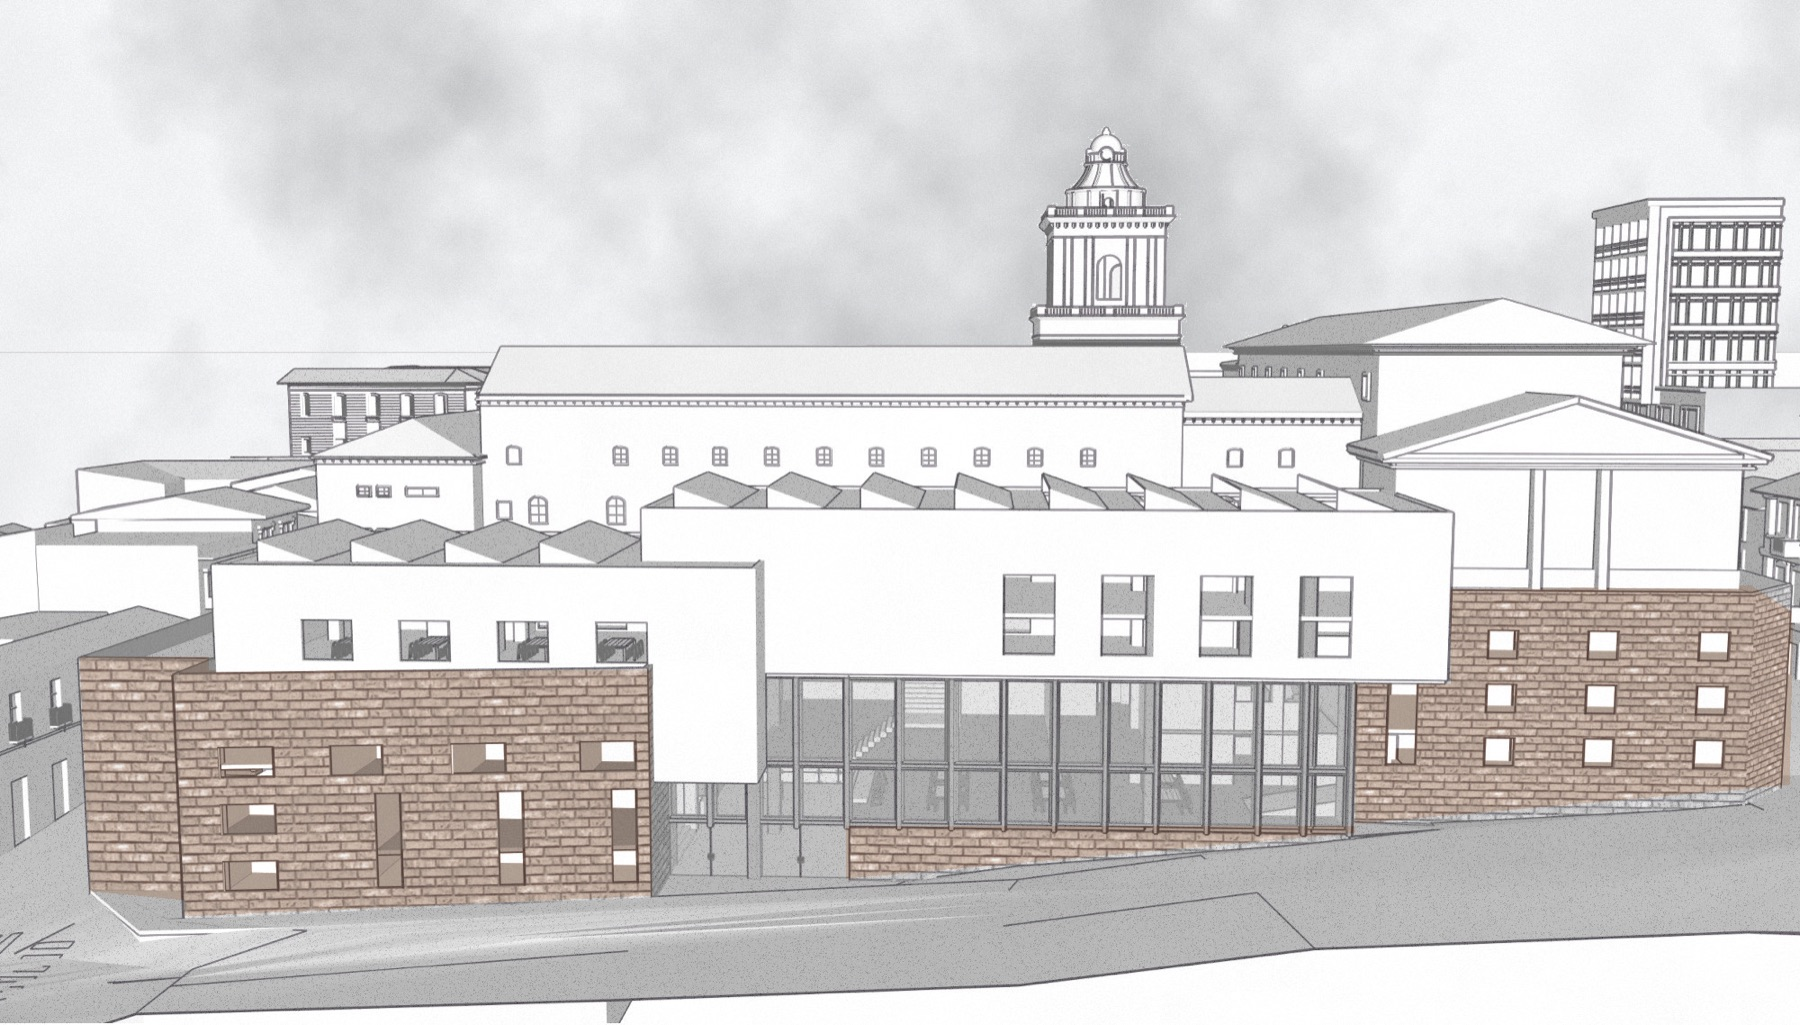
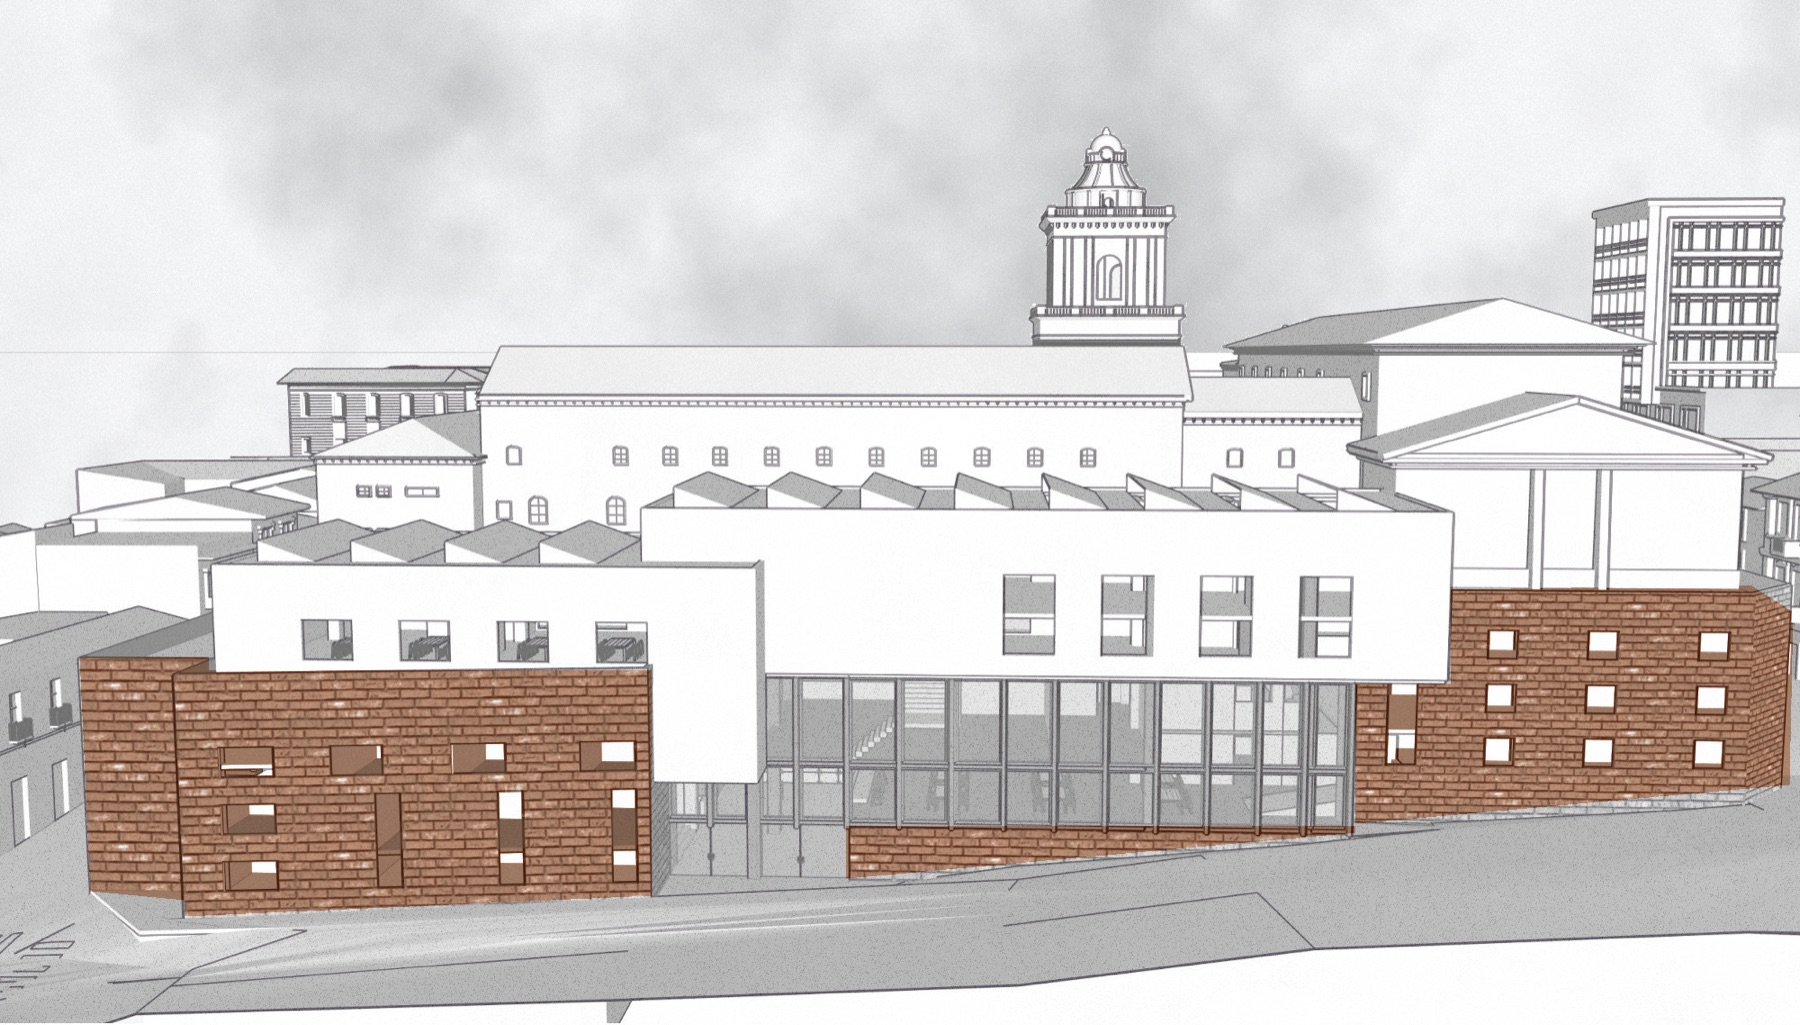
Inicio: piedra de la Facultad con un color más presente

Changed region(s): [[0.0311, 0.6244, 0.3733, 0.9054], [0.4667, 0.562, 0.9956, 0.8741]]

diff --git a/CLAUDE.md b/CLAUDE.md
@@ -78,7 +78,7 @@ Sitio en vivo: Vercel, desplegado automáticamente desde `main` de https://githu
 - **Menú** a pantalla completa: **PROYECTOS** (Remodelación YM + obras de Arq. Buró), **DISEÑOS** (los 6 proyectos universitarios, presentados sin referencia a la universidad), SOBRE MÍ, CONTACTO.
 - **Inicio** = franjas horizontales a todo el ancho, **una por proyecto** (lista `franjas` en App.jsx; `pos` = parte visible de la foto). Alto: computadora `clamp(260px, 25vw, 440px)` (≈360 px a 1440 px; Joaquín las veía muy cortadas con 230), celular 230 px. B/N; al pasar el mouse, color + nombre + rol ("Jefe de obra", "Diseño y dirección de obra", "Diseño"); en celular el nombre se ve siempre con sombra inferior. Se probó un mosaico de tamaños distintos y **Joaquín prefirió las franjas horizontales**.
 - **Orden (pedido por Joaquín)**: Remodelación YM, Casa JC, FR, AJ, JV, LT, BR, Colegio Mine, Mundaneum Beirut, Galería-Talleres, Edificio Nexo, Facultad, Biblioteca, Centro Comunitario. Desde la sesión 4 el menú, las grillas y "proyecto anterior / siguiente" siguen este mismo orden (es el orden de las listas en `proyectos.js`).
-- Franja de la **Facultad** (2026-11-17, Joaquín la veía "como un dibujo" y la quería con el estilo de Mundaneum/Centro Comunitario): `disenos/facultad-arquitectura-inicio.jpg` = vista del conjunto (`facultad-arquitectura/01.jpg`) pasada a ilustración con `~/Desktop/pdf-tools/ilustra2.mjs` (cielo de acuarela, contornos negros → líneas grises finas por cierre morfológico, tonos aclarados, ladrillo cálido #b8906c, grano y punteado de papel; semillas `60,440;1990,470` para el suelo blanco de SketchUp; `linea` 0.3, `ladrillo` #c49c80, `fuerzaLadrillo` 0.5, con el ladrillo marcado a mano en `poligonos` [[[88,730],[232,730],[232,745],[724,745],[724,995],[205,1018],[205,1000],[100,990]],[[940,918],[1506,918],[1506,925],[940,976]],[[1612,655],[1945,650],[1992,680],[1988,872],[1506,915],[1506,760],[1612,760]]] sobre la imagen de 2000 px), 1800 px, `pos` 50% 60%. **Color de la piedra muy sutil** (pedido de Joaquín): en reposo la franja usa `gris: 0.7` (variable CSS `--gris` → `grayscale(0.7)`, se ve un leve tono cálido) y al pasar el mouse el color completo, liviano. Se descartó Higgsfield: Joaquín pidió hacerla sin servicios externos. Franja de **Galería-Talleres** = sección 2 (`disenos/galeria-talleres-inicio.jpg`, recorte de la lámina `[.662,.79,.883,.912]`, `pos` 50% 45%), pedido de Joaquín el 2026-11-16; solo en el inicio: la galería y la portada de la grilla de Diseños siguen con la maqueta. Portada de **Mundaneum** = render de la fachada de arcos con la mezquita y las ruinas romanas (recorte de `mundaneum-beirut/01.jpg`, 74,206,1856×846 → 1600×729).
+- Franja de la **Facultad** (2026-11-17, Joaquín la veía "como un dibujo" y la quería con el estilo de Mundaneum/Centro Comunitario): `disenos/facultad-arquitectura-inicio.jpg` = vista del conjunto (`facultad-arquitectura/01.jpg`) pasada a ilustración con `~/Desktop/pdf-tools/ilustra2.mjs` (cielo de acuarela, contornos negros → líneas grises finas por cierre morfológico, tonos aclarados, ladrillo cálido #b8906c, grano y punteado de papel; semillas `60,440;1990,470` para el suelo blanco de SketchUp; `linea` 0.3, `ladrillo` #b07a5a, `fuerzaLadrillo` 0.8 (con #c49c80 y 0.5 Joaquín lo vio "demasiado claro"), con el ladrillo marcado a mano en `poligonos` [[[88,730],[232,730],[232,745],[724,745],[724,995],[205,1018],[205,1000],[100,990]],[[940,918],[1506,918],[1506,925],[940,976]],[[1612,655],[1945,650],[1992,680],[1988,872],[1506,915],[1506,760],[1612,760]]] sobre la imagen de 2000 px), 1800 px, `pos` 50% 60%. **Color de la piedra muy sutil** (pedido de Joaquín): en reposo la franja usa `gris: 0.7` (variable CSS `--gris` → `grayscale(0.7)`, se ve un leve tono cálido) y al pasar el mouse el color completo, liviano. Se descartó Higgsfield: Joaquín pidió hacerla sin servicios externos. Franja de **Galería-Talleres** = sección 2 (`disenos/galeria-talleres-inicio.jpg`, recorte de la lámina `[.662,.79,.883,.912]`, `pos` 50% 45%), pedido de Joaquín el 2026-11-16; solo en el inicio: la galería y la portada de la grilla de Diseños siguen con la maqueta. Portada de **Mundaneum** = render de la fachada de arcos con la mezquita y las ruinas romanas (recorte de `mundaneum-beirut/01.jpg`, 74,206,1856×846 → 1600×729).
 - **Rutas**: `#/` · `#/proyectos` y `#/disenos` (grilla de portadas) · `#/p/<slug>` = **todas las fotos del proyecto en grilla de 3 columnas** (lo que abre cada franja y el menú; B/N, color y descripción al pasar) · `#/p/<slug>/<n>` = al hacer clic en una foto: foto n grande (clic → visor a pantalla completa), ficha "campo > valor" a la derecha, miniaturas abajo, resumen debajo; la dirección se actualiza al cambiar de foto; al pie: ‹ proyecto anterior · TODAS LAS FOTOS · siguiente › · `#/sobre-mi` · `#/contacto`.
 - **Fichas**: cada dato en su línea, etiqueta gris con dos puntos arriba ("Tipo:", "Ubicación:", "Año:", "Diseño y dirección de obra:") y valor blanco debajo; grupos separados por líneas finas (`<dl class="ficha-grupo">`; pedido de Joaquín, antes era "campo > valor" con "-"). Datos: tipo, ubicación, año; obras: "Diseño: Diez + Muller · Construcción: Arq. Buró · Dirección de obra: Joaquín Andrade" (antes "jefe de obra"; Joaquín pidió "Dirección de obra" en los proyectos el 2026-11-16; también es el rol en las franjas del inicio); YM: tipo "Remodelación", ubicación "Oyambarillo, Quito, Ecuador", 2025, "diseño y dirección de obra > Joaquín Andrade" + descripción de 3 párrafos escrita por Joaquín (no reescribirla; `resumen` puede ser un texto o una lista de párrafos); diseños: "diseño > Joaquín Andrade", **excepto el Centro Comunitario** (`coautoria: true`, sin crédito de diseño).
 - El **comparador obra/terminado** (Casa AJ) está en la página `#/p/casa-aj/<n>`, debajo del resumen.
